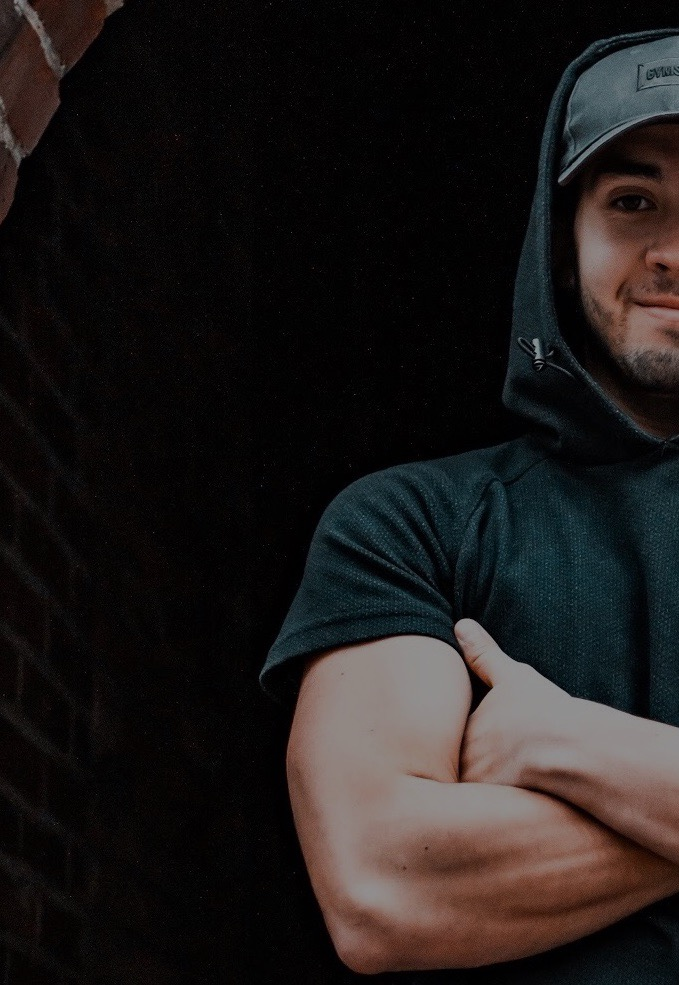
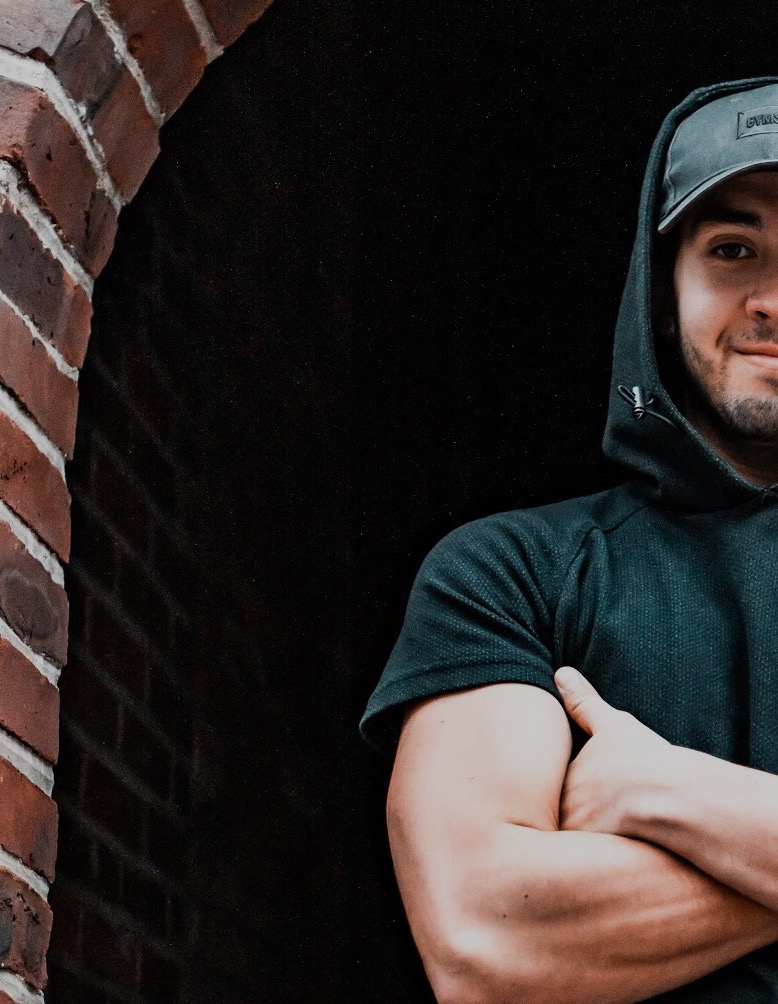
1.6 dynamic landing complete(right image height is off my 1px currently in debug process)

diff --git a/src/CSS/landing.css b/src/CSS/landing.css
@@ -81,13 +81,11 @@ ion-icon {
 .split.left {
   left: 0;
   width: 50%;
-  height: 100%;
 }
 
 .split.right {
   right: 0;
   width: 50%;
-  height: 100%;
 }
 
 .content:hover .split {
@@ -120,21 +118,21 @@ ion-icon {
 }
 
 .text {
-  width: 100%;
+  width: 50vw;
   position: absolute;
-  top: 50%;
+  top: 25%;
   transition: all 1s cubic-bezier(0.87, 0.76, 0.33, 0.98);
 }
 
 .text .subtitle {
-  font-size: 16px;
+  font-size: 0.8vw;
   text-transform: uppercase;
   color: #fff;
   letter-spacing: 2px;
 }
 
 .text .title {
-  font-size: 80px;
+  font-size: 4vw;
   color: #fff;
   text-transform: uppercase;
   font-weight: 700;
@@ -145,12 +143,13 @@ ion-icon {
 }
 
 .text .desc {
-  font-size: 14px;
+  font-size: 0.7vw;
   color: #fff;
   font-weight: 300;
   line-height: 2;
-  margin: 10px 0px 30px 15%;
-  width: 400px;
+  width: 28em;
+  margin: auto;
+  margin-bottom: 20px;
 }
 
 .text .button {

diff --git a/src/Components/content.jsx b/src/Components/content.jsx
@@ -20,7 +20,8 @@ class Content extends Component {
           <div className="text">
             <p className="subtitle">Designing</p>
             <h1 className="title">
-              UI/UX <br />
+              UI/UX
+              <br />
             </h1>
             <p className="desc">
               UI/UX Designer with a passion for designing beautiful and

diff --git a/src/App.css b/src/App.css
@@ -1,6 +1,5 @@
 .App {
   text-align: center;
-  background-color: #030202;
 }
 
 .App-logo {
